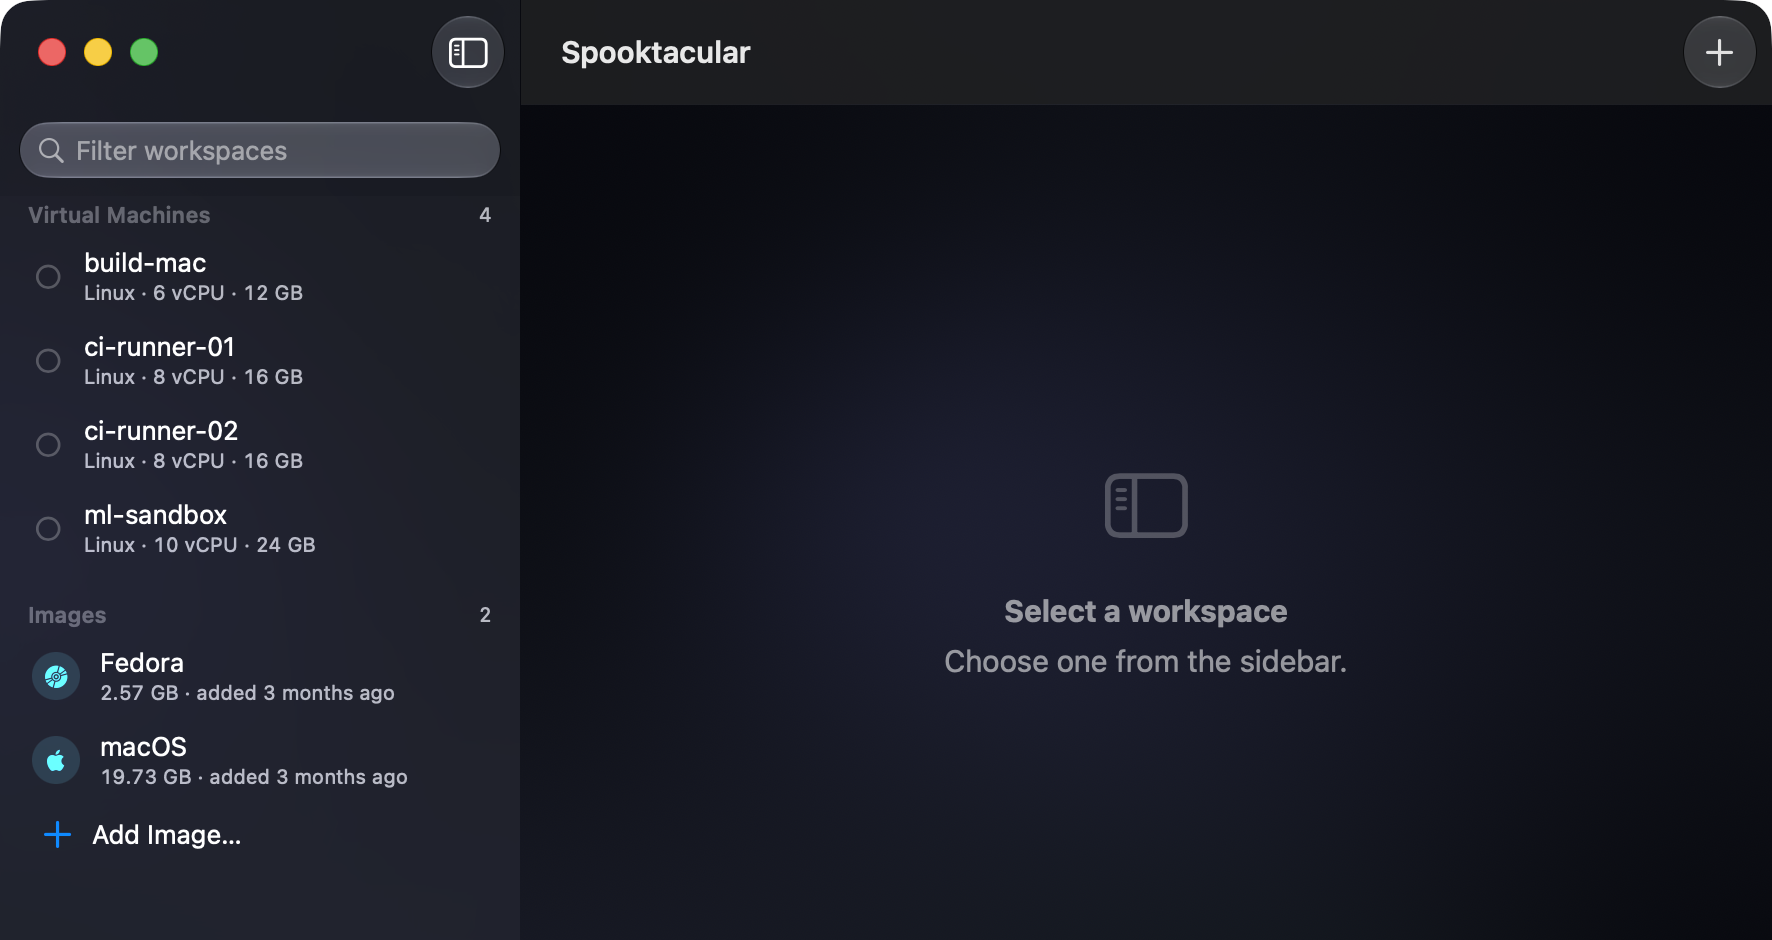
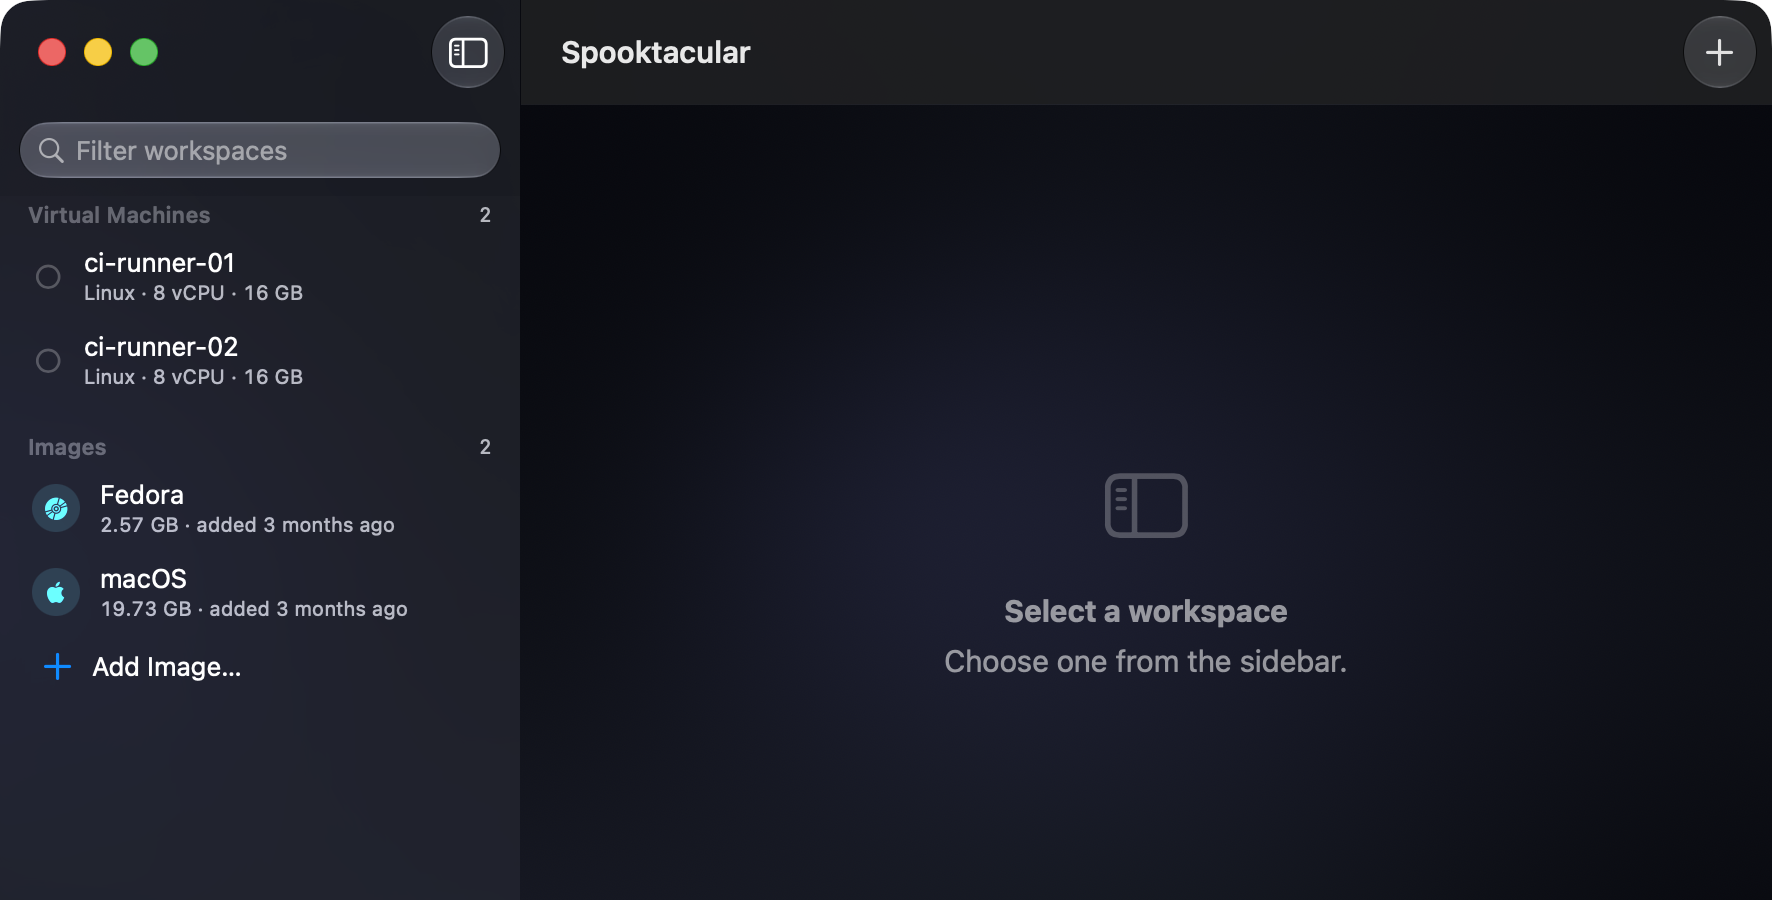
feat(site): replay a real captured session, and correct four claims
You asked for the terminal typing effect with real substance behind it, so the
transcript is not written — it is captured. I ran create, clone and list on this
machine and the block replays that output verbatim, including the bundle UUID
and the Fedora image filename. The one edit is the generated password, masked;
publishing a working credential would be a leak even for a throwaway VM. Every
other line was then grepped back to the string that produces it in Sources/.

The effect is built the way you described — a mock window with traffic lights,
commands typed a character at a time, output revealed as blocks the way a shell
actually behaves, and a replay control. It is vanilla JS, no library, no
external request. The full transcript sits in the markup, so with JavaScript
off or prefers-reduced-motion set all 23 lines are simply present; the script
only paces what is already there, and stops if reduced motion is switched on
mid-visit. The terminal is dark inside the light page because a real terminal is
dark — it reads as an artifact rather than a theme.

Four claims corrected while auditing the site against the code:

- get-started listed a --labels flag for runners. It does not exist. The
  template accepts labels, but nothing exposes them on the CLI, and the row now
  says exactly that. Runners do always register self-hosted, macOS and ARM64.
- compare said the runner pool is a 'nine-state lifecycle machine'; the State
[…]

diff --git a/docs/index.html b/docs/index.html
@@ -83,6 +83,66 @@
 .shot p { color: var(--ink-2); }
 .shot ul { margin: 1rem 0 0; padding-left: 1.1rem; color: var(--ink-2); font-size: var(--t-small); line-height: 1.7; }
 
+
+/* ---- Session replay -------------------------------------------------------
+   A real terminal is dark, so the artifact is dark inside the light page —
+   the way a screenshot would be. The transcript lives in the markup, so the
+   block is complete with JavaScript disabled; the script only paces it. */
+.replay-wrap { container-type: inline-size; }
+.term.shell {
+  background: oklch(19% 0.012 275);
+  border-color: oklch(100% 0 0 / 0.14);
+}
+.term.shell .term-bar {
+  background: oklch(23% 0.013 275);
+  border-bottom-color: oklch(100% 0 0 / 0.09);
+}
+.term.shell .term-bar i { background: oklch(70% 0.02 275); opacity: 0.35; }
+.term.shell .term-bar b { color: oklch(66% 0.012 275); }
+.term.shell pre {
+  padding: 1rem 1.15rem 1.25rem;
+  color: oklch(78% 0.01 275);
+  font-size: clamp(0.6875rem, 0.45rem + 0.6vw, 0.8125rem);
+  line-height: 1.55;
+  /* Reserve the finished height so the replay does not reflow the page. */
+  min-height: 23.5rem;
+}
+.term.shell code { display: block; border: 0; background: none; padding: 0; font-size: inherit; }
+.term.shell .ln { display: block; white-space: pre; }
+.term.shell .ok   { color: oklch(78% 0.15 155); }
+.term.shell .warn { color: oklch(82% 0.13 85); }
+.term.shell .em   { color: oklch(96% 0.005 275); }
+.term.shell .dim  { color: oklch(62% 0.012 275); }
+/* A typed command carries its own prompt, added in CSS so the text stays
+   copy-pasteable without a stray "$". */
+.term.shell .cmd-line { color: oklch(96% 0.005 275); }
+.term.shell .cmd-line::before { content: '$ '; color: oklch(72% 0.145 273); }
+
+.replay-again {
+  margin-left: auto; padding: 0.15rem 0.5rem;
+  border: 1px solid oklch(100% 0 0 / 0.16); border-radius: var(--r-sm);
+  background: transparent; color: oklch(66% 0.012 275);
+  font-family: var(--mono); font-size: 0.6875rem; cursor: pointer;
+  transition: color var(--quick) var(--out), border-color var(--quick) var(--out);
+}
+.replay-again:hover { color: oklch(96% 0.005 275); border-color: oklch(100% 0 0 / 0.32); }
+
+/* Only hide lines once the script has taken over, so no-JS shows everything. */
+.term.shell[data-running] .ln { visibility: hidden; }
+.term.shell[data-running] .ln[data-shown] { visibility: visible; }
+.term.shell .ln[data-typing]::after {
+  content: '';
+  display: inline-block; width: 0.5em; height: 1em;
+  margin-left: 0.05em; vertical-align: -0.15em;
+  background: oklch(72% 0.145 273);
+  animation: caret 1s steps(1, end) infinite;
+}
+@keyframes caret { 50% { opacity: 0; } }
+@media (prefers-reduced-motion: reduce) {
+  .term.shell[data-running] .ln { visibility: visible; }
+  .term.shell .ln[data-typing]::after { display: none; }
+}
+
 .closing { text-align: center; }
 .closing h2 { max-width: 26ch; margin-inline: auto; }
 .closing p { margin-top: 0.9rem; max-width: 50ch; margin-inline: auto; color: var(--ink-2); }
@@ -374,8 +434,8 @@
       </div>
       <div class="shot reveal">
         <figure class="fig">
-          <img src="/img/app/window.png" width="1772" height="1078" loading="lazy"
-               alt="The Spooktacular Mac app, listing virtual machines with their CPU, memory and disk allocations beside a sidebar of downloaded images.">
+          <img src="/img/app/window.png" width="1772" height="900" loading="lazy"
+               alt="The Spooktacular Mac app: a sidebar listing two Linux virtual machines with their vCPU and memory allocations, above the downloaded Fedora and macOS images.">
           <figcaption><b>Fig 2</b> — the app, managing a small fleet.</figcaption>
         </figure>
         <div>
@@ -399,48 +459,42 @@
     </div>
   </section>
 
+  <!-- A replay of a session actually captured from this machine. The full
+       transcript is in the markup, so it is complete without JavaScript and
+       under prefers-reduced-motion; the script only reveals it gradually. -->
   <section class="band">
     <div class="container">
       <div class="band-head reveal">
-        <h2>What the first run actually prints.</h2>
+        <h2>A real session, replayed.</h2>
         <p>
-          The first create pays for the base image once. Every create after it is
-          file operations.
+          Every line below was captured from a terminal on an M-series Mac —
+          commands, timings and all. Only the generated password is masked.
         </p>
       </div>
-      <div class="grid cols-2 reveal" style="gap:clamp(1rem,3vw,2rem)">
-        <div class="term">
-          <div class="term-bar"><i></i><i></i><i></i><b>first create — once per macOS build</b></div>
-<pre><span class="dim">$</span> <span class="em">sudo spook create dev</span>
-<span class="dim">Resolving the latest macOS restore image…</span>
-<span class="dim">Downloading IPSW (100%)</span>
-<span class="acc">Building the macOS base image — one time, 10-20 minutes.</span>
-<span class="dim">  Installing base: 100%</span>
-<span class="dim">  Injecting provisioner into the base…</span>
-<span class="dim">  Sealing the base image read-only…</span>
-<span class="ok">✓ Base image ready.</span>
-<span class="ok">✓ VM created from the cached base image.</span>
-<span class="dim">  Address 192.168.64.3</span></pre>
-        </div>
-        <div class="term">
-          <div class="term-bar"><i></i><i></i><i></i><b>every create after that</b></div>
-<pre><span class="dim">$</span> <span class="em">spook create dev2</span>
-<span class="ok">✓ VM created from the cached base image.</span>
-<span class="dim">  Address 192.168.65.3</span>
 
-<span class="dim">$</span> <span class="em">spook clone dev2 dev3</span>
-<span class="ok">✓ Clone 'dev3' created.</span>
-<span class="dim">  Machine ID  inherited (paired with auxiliary storage)</span>
-<span class="dim">  MAC         regenerated (unique)</span>
-
-<span class="dim">$</span> <span class="em">spook list</span>
-<span class="dim">dev    dev2    dev3</span></pre>
+      <div class="replay-wrap reveal">
+        <div class="term shell" data-replay>
+          <div class="term-bar">
+            <i></i><i></i><i></i>
+            <b>zsh — spook</b>
+            <button class="replay-again" type="button" hidden>replay</button>
+          </div>
+          <pre><code><span class="ln cmd-line">spook create ci-runner-01 --os linux --from-image fedora</span><span class="ln ok">✓ Linux VM 'ci-runner-01' created (cloud-init provisioned).</span><span class="ln dim">  Bundle           ~/.spooktacular/vms/ED27407A-FBBA-4F12-878A-C26C041F8BBE.vm</span><span class="ln dim">  Image            Fedora-Cloud-Base-AmazonEC2-44-1.7.aarch64.raw.xz</span><span class="ln">&nbsp;</span><span class="ln warn">⚠ Save these credentials — you need them to connect (shown only once):</span><span class="ln dim">  Account          admin</span><span class="ln dim">  Password         ························</span><span class="ln dim">  Applied by cloud-init on the first 'spook start'. No sudo needed.</span><span class="ln">&nbsp;</span><span class="ln cmd-line">spook clone ci-runner-01 ci-runner-02</span><span class="ln dim">⤢ Cloning 'ci-runner-01' → 'ci-runner-02'…</span><span class="ln ok">✓ Clone 'ci-runner-02' created.</span><span class="ln dim">  Machine ID       inherited (paired with auxiliary storage)</span><span class="ln dim">  MAC              regenerated (unique)</span><span class="ln">&nbsp;</span><span class="ln cmd-line">spook list</span><span class="ln dim">NAME          STATE      CPU      MEM    DISK    NET  ♪  STATUS</span><span class="ln dim">────────────  ─────────  ───────  ─────  ──────  ───  ─  ───────</span><span class="ln em">ci-runner-01  ○ stopped  8 cores  16 GB  100 GB  nat  ♪  pending</span><span class="ln em">ci-runner-02  ○ stopped  8 cores  16 GB  100 GB  nat  ♪  pending</span><span class="ln">&nbsp;</span><span class="ln dim">2 virtual machines, 0 running</span></code></pre>
         </div>
       </div>
+
       <p class="prose" style="margin-top:1.5rem">
+        The first macOS create is the one that costs anything: it installs macOS
+        into the shared base image, printing
+        <code>Building the macOS base image — one time, 10-20 minutes.</code>
+        and then <code>Sealing the base image read-only…</code> before the VM
+        appears. Every create after that skips straight to
+        <code>✓ VM created from the cached base image.</code>
+      </p>
+      <p class="prose" style="margin-top:0.85rem">
         Apple permits two macOS guests per host, and Spooktacular enforces that
-        rather than letting you find out later. Linux guests are unlimited, boot
-        from a cloud image, and need no base image at all.
+        rather than letting you find out later. Linux guests, like the ones
+        above, are unlimited and need no base image at all.
       </p>
     </div>
   </section>
@@ -515,6 +569,107 @@ document.addEventListener('click', function (event) {
     }, 1600);
   });
 });
+
+
+/* Session replay. The transcript is already in the DOM; this paces its
+   reveal — commands typed a character at a time, output lines revealed as a
+   block, which is how a real shell behaves. Bails out entirely under
+   prefers-reduced-motion, and never runs if the element is missing. */
+(function () {
+  var shell = document.querySelector('.term.shell[data-replay]');
+  if (!shell) { return; }
+
+  var reduce = window.matchMedia('(prefers-reduced-motion: reduce)');
+  if (reduce.matches) { return; }
+
+  var lines = Array.prototype.slice.call(shell.querySelectorAll('.ln'));
+  if (!lines.length) { return; }
+
+  var again = shell.querySelector('.replay-again');
+  var originals = lines.map(function (line) { return line.textContent; });
+  var timers = [];
+  var running = false;
+
+  function clearTimers() {
+    timers.forEach(clearTimeout);
+    timers = [];
+  }
+
+  function after(delay, fn) { timers.push(setTimeout(fn, delay)); }
+
+  function finish() {
+    running = false;
+    shell.removeAttribute('data-running');
+    lines.forEach(function (line, i) {
+      line.textContent = originals[i];
+      line.setAttribute('data-shown', '');
+      line.removeAttribute('data-typing');
+    });
+    if (again) { again.hidden = false; }
+  }
+
+  function typeLine(line, text, done) {
+    line.setAttribute('data-typing', '');
+    line.setAttribute('data-shown', '');
+    line.textContent = '';
+    var i = 0;
+    (function step() {
+      if (i >= text.length) {
+        line.removeAttribute('data-typing');
+        after(260, done);
+        return;
+      }
+      line.textContent = text.slice(0, ++i);
+      after(18 + Math.round((i * 7) % 11), step);   // slight jitter, no RNG
+    })();
+  }
+
+  function play(index) {
+    if (index >= lines.length) { finish(); return; }
+    var line = lines[index];
+    var text = originals[index];
+    if (line.classList.contains('cmd-line')) {
+      typeLine(line, text, function () { play(index + 1); });
+      return;
+    }
+    line.textContent = text;
+    line.setAttribute('data-shown', '');
+    after(text.trim() ? 55 : 110, function () { play(index + 1); });
+  }
+
+  function start() {
+    if (running) { return; }
+    running = true;
+    clearTimers();
+    if (again) { again.hidden = true; }
+    shell.setAttribute('data-running', '');
+    lines.forEach(function (line) {
+      line.removeAttribute('data-shown');
+      line.removeAttribute('data-typing');
+      line.textContent = '\u00a0';
+    });
+    after(220, function () { play(0); });
+  }
+
+  if (again) { again.addEventListener('click', start); }
+
+  /* Begin when the block is actually on screen, once. */
+  if ('IntersectionObserver' in window) {
+    var io = new IntersectionObserver(function (entries) {
+      entries.forEach(function (entry) {
+        if (entry.isIntersecting) { io.disconnect(); start(); }
+      });
+    }, { threshold: 0.35 });
+    io.observe(shell);
+  } else {
+    start();
+  }
+
+  /* If the user switches on reduced motion mid-visit, stop and show it all. */
+  reduce.addEventListener('change', function (event) {
+    if (event.matches) { clearTimers(); finish(); }
+  });
+})();
 </script>
 </body>
 </html>

diff --git a/docs/get-started.html b/docs/get-started.html
@@ -278,7 +278,7 @@
               <tr><td><code>--github-repo</code></td><td>The <code>owner/repo</code> the runner registers against.</td></tr>
               <tr><td><code>--github-token-keychain</code></td><td>Keychain account holding the PAT, under service <code>com.spooktacular.github</code>. The only accepted source — never a flag, an environment variable, or a file.</td></tr>
               <tr><td><code>--ephemeral</code></td><td>The runner takes one job and exits. Reset the VM and the next job starts from the base image.</td></tr>
-              <tr><td><code>--labels</code></td><td>Extra runner labels. <code>self-hosted</code>, <code>macOS</code> and <code>ARM64</code> are always present.</td></tr>
+              <tr><td>Runner labels</td><td>Every runner registers with <code>self-hosted</code>, <code>macOS</code> and <code>ARM64</code>. Extra labels are supported by the template but are not yet exposed as a CLI flag.</td></tr>
               <tr><td><code>--no-start</code></td><td>Create and provision, but do not boot. Useful for pre-warming a pool.</td></tr>
             </tbody>
           </table>

diff --git a/docs/compare.html b/docs/compare.html
@@ -302,7 +302,7 @@ table.matrix tbody td { white-space: normal; }
             <tr class="group"><td colspan="5">Fleet and security</td></tr>
             <tr>
               <td>Runner pool orchestration</td>
-              <td class="yes mark">Yes<small>a nine-state lifecycle machine</small></td>
+              <td class="yes mark">Yes<small>a ten-state lifecycle machine</small></td>
               <td class="no">—</td>
               <td class="yes">Yes</td>
               <td class="yes">Yes</td>
